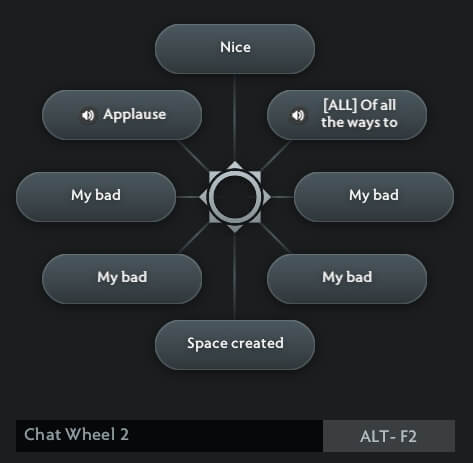
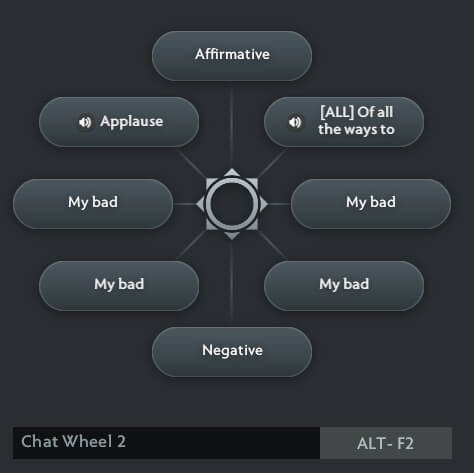
.

diff --git a/web/html/section-19-chat-wheel.html b/web/html/section-19-chat-wheel.html
@@ -31,20 +31,9 @@
         
       <p>
         Over a decade I figured this is <b>the</b> required setup to play.<br>
-        I <i>really</i> want these call-outs on hand.
       </p>
     
       <img class="" src="assets/images/options/options-chat-wheel-full-01.jpg" alt=""> 
-
-      <p class="mt2">
-        Towards the top I have progressively "aggressive" call-outs.<br>
-        Towards the bottom I have progressively "defensive" call-outs.
-      </p>
-
-      <p class="mt2">
-        On the left I have "suggestions what to do".<br>
-        On the right I have "be aware of my perspective".
-      </p>
 
       <p class="mt2">
         It just makes sense.
@@ -53,32 +42,26 @@
       <p class="separator mt2"></p>
 
       <p class="mt2">
-        <act>Go</act> and <act>Get Back</act> are obvious.<br>
-        Required for any coordination.<br>
+        <act>Go</act> and <act>Get Back</act> are required for any coordination.<br>
+        We put them as polar opposites on the wheel (top - bottom).<br>
       </p>
      
-      <p class="separator mt2"></p>
+     <p class="separator mt2"></p>
 
-      <p class="mt2">
-        <act>Affirmative</act> — I like this one a lot because it adds to team spirit.<br>
-        It allows you to <i>visibly</i> agree with a call, giving you a free “chemistry” boost with your teammate.<br><br>
-        Now, consider this: <br>
-        people are herd animals.<br><br>
-        When they see two players agreeing on a call, they become much more likely to follow along.<br>
-        So this phrase "double dips" into the "we are a team" vibe, which - in my opinion - is important.
-      </p>
+     <p class="mt2">
+       <act>Group Up</act> serves as the "<b>Get Ready</b>" and "<b>Let's Go</b>" call-outs.<br>
+       It's also useful when you actually want to group up, i.e. for <span class="nowrap"><spell>Smokes</spell><img class="heroicon" src="assets/images/itemicon/smoke.jpg" alt=""></span>
+     </p>      
 
-      <p class="mt2">
-        This works even better if you’re playing with a friend, because you can <act>Affirmative</act> each other’s calls and rally the rest of the team that way.
-      </p>
+     <p class="separator mt2"></p>
 
-      <p class="separator mt2"></p>
-
-      <p class="mt2">
-        <act>Negative</act> — currently experimenting with this one.<br>
-        It’s there so you can let your team know you’re not participating.<br><br>
-        But does it make you win more? I'm not sure yet.
-      </p>
+     <p class="mt2">
+       <act>Spread Out</act> is important for any pre-teamfight action, especially when facing big ultimates such as <span class="nowrap"><spell>Black Hole</spell><img class="heroicon" src="assets/images/spellicon/blackhole.jpg" alt=""></span>, <span class="nowrap"><spell>Reverse Polarity</spell><img class="heroicon" src="assets/images/spellicon/reversepolarity.jpg" alt=""></span>, <span class="nowrap"><spell>Chronosphere</spell><img class="heroicon" src="assets/images/spellicon/chronosphere.jpg" alt=""></span>, etc.
+     </p> 
+     
+     <p class="mt2">
+       Generally useful around objectives, especially high-ground.
+     </p>
 
       <p class="separator mt2"></p>
 
@@ -103,23 +86,6 @@
       <p class="separator mt2"></p>
 
       <p class="mt2">
-        <act>Spread Out</act> is important for any pre-teamfight action, especially when facing big ultimates such as <span class="nowrap"><spell>Black Hole</spell><img class="heroicon" src="assets/images/spellicon/blackhole.jpg" alt=""></span>, <span class="nowrap"><spell>Reverse Polarity</spell><img class="heroicon" src="assets/images/spellicon/reversepolarity.jpg" alt=""></span>, <span class="nowrap"><spell>Chronosphere</spell><img class="heroicon" src="assets/images/spellicon/chronosphere.jpg" alt=""></span>, etc.
-      </p> 
-      
-      <p class="mt2">
-        Generally useful around objectives, especially high-ground.
-      </p>
-
-      <p class="separator mt2"></p>
-
-      <p class="mt2">
-        <act>Group Up</act> serves as the "<b>Get Ready</b>" and "<b>Let's Go</b>" call-outs.<br>
-        It's also useful when you actually want to group up, i.e. for <span class="nowrap"><spell>Smokes</spell><img class="heroicon" src="assets/images/itemicon/smoke.jpg" alt=""></span>
-      </p>      
-
-      <p class="separator mt2"></p>
-
-      <p class="mt2">
         <act>All miss</act> is a fantastic call-out for "<b>They are smoked</b><img class="heroicon" src="assets/images/itemicon/smoke.jpg" alt="">", "<b>They are ganking</b>", "<b>Watch the minimap</b>" and "<b>Careful</b>."<br><br>
         I use it all the time when I don't see anyone of the minimap.<br>
         I use it even as a morale booster after a team wipe.<br><br>
@@ -127,7 +93,28 @@
       </p>
 
       <p class="mt2">
-        Use <act>All miss</act> with <act>Fight under tower</act>, <act>Get back</act> and <act>Group Up</act> to bring your team into safety.
+        Use <act>All miss</act> with <act>Fight under tower</act>, <act>Get back</act> and <act>Group Up</act> to bring your team into safety (results may vary).
+      </p>
+
+      <p class="separator mt2"></p>
+
+      <p class="mt2">
+        I really find these two very valuable:<br>
+        <act>Nice</act><br>
+        <act>Space Created</act>
+      </p>
+
+      <p class="mt2">
+        I use <act>Nice</act> whenever something good (or lucky) happens.<br>
+        By "good" I mean "in our favor".<br>
+        This acts as a positive reinforcenment => "good job", "well done", "we're cooking", etc.<br>
+        It affects the morale of the team in a positive way.
+      </p>
+    
+      <p class="mt2">
+        I use <act>Space Created</act> when something bad (or unlucky) happens.<br>
+        By "bad" I mean "not in our favor".<br>
+        This phrase is somewhat funny, so it diffuses some of the negativity that builds up.<br>
       </p>
 
       <p class="separator mt2"></p>
@@ -137,10 +124,10 @@
         1. <act>Go</act> and <act>Get Back</act><br>
         2. <act>All miss</act><br>
         3. <act>Fight Under Tower</act><br>
-        4. <act>Affirmative</act><br>
+        4. <act>Nice</act><br>
         5. <act>Group Up</act><br>
         6. <act>Spread Out</act><br>
-        7. <act>Negative</act>
+        7. <act>Space Created</act>
       </p>
 
     </div>   
@@ -150,34 +137,29 @@
 
       <h2>Chat Wheel 2 Setup</h2>
         
-      <p>
-        The Emotions Sink wheel.<br>
-      </p>
-    
       <p class="mt2">
-        I really find these two VERY valuable:<br>
-        <act>Nice</act><br>
-        <act>Space Created</act>
+        Use whatever, but here's a couple of extra thoughts.
       </p>
-    
+
       <p class="mt2">
-        I use <act>Nice</act> whenever something good happens.<br>
-        By "good" I mean "in our favor".<br>
-        This acts as a positive reinforcenment => "good job", "well done", "we're cooking", etc.<br>
-        It affects the morale of the team in a positive way.
+        <act>Affirmative</act> — I like this one a lot because it adds to team spirit.<br>
+        It allows you to <i>visibly</i> agree with a call, giving you a free "chemistry" boost with your teammate.<br><br>
+        
+        Now, people are herd animals.<br>
+        When they see two players agreeing on something, they are much more likely to follow along as well.<br>
       </p>
-    
+
       <p class="mt2">
-        I use <act>Space Created</act> when something bad happens.<br>
-        By "bad" I mean "not in our favor".<br>
-        This phrase is somewhat funny, so it diffuses some of the negativity that builds up.<br>
+        This works even better if you're playing with a friend, because you can <act>Affirmative</act> each other's calls and rally the team that way.
       </p>
-    
-      <img class="" src="assets/images/options/options-chat-wheel-full-02.jpg" alt=""> 
+
+      <p class="separator mt2"></p>
 
       <p>
-        My only recommendation here is to avoid using things like "Well played" to be toxic.<br>
+        I believe you should avoid using phases like "Well played" to be toxic to your team.<br>
         Tilt your opponents, not your teammates.
       </p>
+
+      <img class="" src="assets/images/options/options-chat-wheel-full-02.jpg" alt=""> 
 
     </div>
